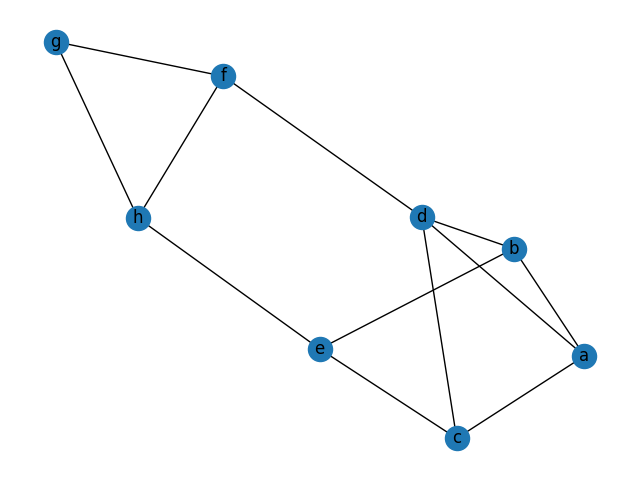
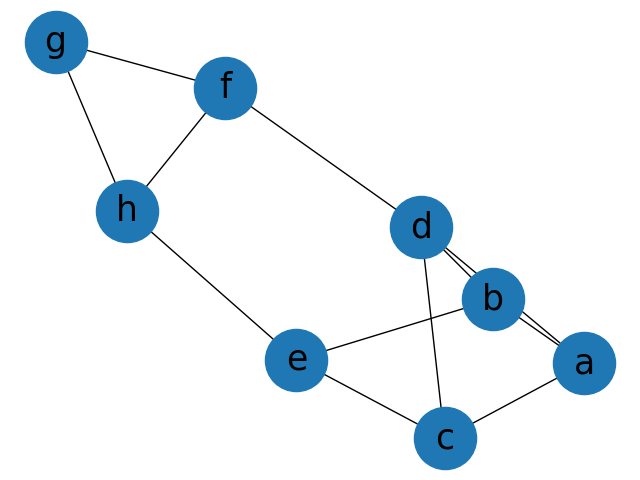
finalize the problem1 and 2

diff --git a/problem2/Alinger.py b/problem2/Alinger.py
@@ -1,11 +1,11 @@
 import numpy as np
 class Aligner():
-    def __init__(self,seq1,seq2):
+    def __init__(self,seq1,seq2, match_reward = 1, gap_penalty = -1, mismatch_penalty=-1):
         self.seq1 = seq1
         self.seq2 = seq2
-        self.match_reward = 1
-        self.gap_penalty = -1
-        self.mismatch_penalty = -1
+        self.match_reward = match_reward
+        self.gap_penalty = gap_penalty
+        self.mismatch_penalty = mismatch_penalty
     def init_matrix(self):
         n = len(self.seq1)
         m = len(self.seq2)

diff --git a/problem2/main.py b/problem2/main.py
@@ -9,3 +9,12 @@ if __name__ == "__main__":
     print(align1)
     print(align2)
     print(score)
+
+    aligner = Aligner("TCGACGCTACGACGCGCGCGCGCGCGCGCGCGCGCGCGAC","TCGACGCTACGACAC")
+    aligner.init_matrix()
+    aligner.global_alignment()
+
+    align1, align2, score = aligner.get_score()
+    print(align1)
+    print(align2)
+    print(score)

diff --git a/problem1/GraphTraverser.py b/problem1/GraphTraverser.py
@@ -55,5 +55,5 @@ class GraphTraverser():
         label_dict = {}
         for i,node in enumerate(node_names):
             label_dict[i] = node
-        nx.draw(graph,labels=label_dict, with_labels=True)
+        nx.draw(graph,labels=label_dict, with_labels=True,node_size=3000,font_size = 23)
         plt.savefig(f"{filename}.png")

diff --git a/problem1/Graph.py b/problem1/Graph.py
@@ -21,5 +21,5 @@ class Graph():
         label_dict = {}
         for i,node in enumerate(self.node_names):
             label_dict[i] = node
-        nx.draw(graph,labels=label_dict, with_labels=True)
+        nx.draw(graph,labels=label_dict, with_labels=True ,node_size = 2000,font_size = 25)
         plt.savefig("Graph.png")
